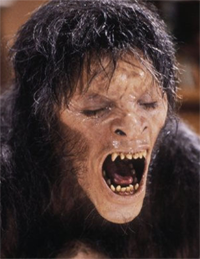
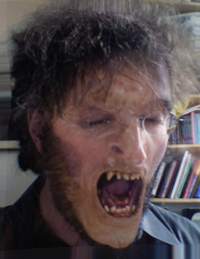
Final code + tests

diff --git a/a2test.py b/a2test.py
@@ -3,27 +3,36 @@ import imageIO as io
 import numpy as np
 import math
 
-image = io.imread("panda2.png")
-io.imwrite(scaleNN(image, 2.5), "pandaNN.png")
-io.imwrite(scaleLin(image, 2.5), "pandaLin.png")
-io.imwrite(rotate(image, math.pi / 4), "pandaRotate.png");
+panda = io.imread("panda2.png")
+bear = io.imread("bear.png")
+fredo = io.imread("fredo2.png")
+werewolf = io.imread("werewolf.png")
 
-image = io.imread("bear.png")
-io.imwrite(warpBy1(image, segment(0,0, 10,0), segment(10, 10, 30, 15)), "bearWarp.png")
+# Test scaling
+io.imwrite(scaleNN(panda, 2.5), "pandaNN_2.5.png")
+io.imwrite(scaleNN(panda, 0.5), "pandaNN_0.5.png")
+io.imwrite(scaleLin(panda, 2.5), "pandaLin_2.5.png")
+io.imwrite(scaleLin(panda, 0.5), "pandaLin_0.5.png")
+io.imwrite(scaleLin(fredo, 2.5), "fredoLin_2.5.png")
+io.imwrite(scaleLin(fredo, 0.5), "fredoLin_0.5.png")
 
-image = io.imread("bear.png")
+# Test rotation
+io.imwrite(rotate(panda, math.pi / 4), "pandaRotate45.png");
+io.imwrite(rotate(panda, math.pi / 2), "pandaRotate90.png");
+io.imwrite(rotate(panda, math.pi), "pandaRotate180.png");
+io.imwrite(rotate(fredo, math.pi / 6), "fredoRotate30.png");
+
+# Test warp single segment
+io.imwrite(warpBy1(bear, segment(0,0, 10,0), segment(10, 10, 30, 15)), "bearWarpBy1.png")
+
+# Test warp 2 segments
 segmentsBefore=np.array([segment(13, 10, 50, 10), segment(119, 72, 119, 28)])
 segmentsAfter=np.array([segment(8, 12, 38, 34), segment(117, 71, 91, 36)])
-io.imwrite(warp(image, segmentsBefore, segmentsAfter), "bearWarp2.png")
+io.imwrite(warp(bear, segmentsBefore, segmentsAfter), "bearWarp2.png")
 
-im1 = io.imread("fredo2.png")
-im2 = io.imread("werewolf.png")
+# Test morph
 segmentsBefore=np.array([segment(11, 37, 37, 20), segment(149, 35, 175, 79), segment(88, 130, 110, 128), segment(146, 129, 163, 132), segment(104, 198, 130, 190), segment(126, 220, 136, 197), segment(41, 197, 70, 249), segment(140, 237, 164, 170)])
 segmentsAfter=np.array([segment(12, 45, 32, 18), segment(160, 16, 177, 56), segment(83, 114, 105, 112), segment(142, 106, 158, 105), segment(103, 170, 131, 155), segment(126, 196, 144, 175), segment(79, 174, 100, 216), segment(145, 194, 157, 139)])
-images, beforemorph, aftermorph = morph(im1, im2, segmentsBefore, segmentsAfter)
-for i, im in enumerate(images):
+results = morph(fredo, werewolf, segmentsBefore, segmentsAfter, 5)
+for i, im in enumerate(results):
 	io.imwrite(im, "morph" + str(i) + ".png")
-for i, im in enumerate(beforemorph):
-	io.imwrite(im, "before" + str(i) + ".png")
-for i, im in enumerate(aftermorph):
-	io.imwrite(im, "after" + str(i) + ".png")

diff --git a/a2.py b/a2.py
@@ -121,7 +121,7 @@ class segment:
     def dist (self, X):
         '''returns distance from point X to the segment (pill shape dist)
         '''
-        return min(abs(self.uv(X)[1]), np.dot(X - self.P, X - self.P), np.dot(X - self.Q, X - self.Q))
+        return min(abs(self.uv(X)[1]), math.sqrt(np.dot(X - self.P, X - self.P)), math.sqrt(np.dot(X - self.Q, X - self.Q)))
 
     def uvtox(self,u,v):
         '''take the u,v values and return the corresponding point (that is, the np.array([y, x]))
@@ -180,17 +180,12 @@ def morph(im1, im2, segmentsBefore, segmentsAfter, N=1, a=10, b=1, p=1):
     '''
     sequence=list()
     sequence.append(im1.copy())
-    l1 = []
-    l2 = []
     for i in xrange(1, N+1):
         t = float(i) / (N+1)
-        print t
         newSeg = segmentsBefore * (1-t) + segmentsAfter * t
         int1 = warp(im1, segmentsBefore, newSeg)
         int2 = warp(im2, segmentsAfter, newSeg)
         morphIm = (1-t) * int1 + t * int2
-        l1.append(int1)
-        l2.append(int2)
         sequence.append(morphIm)
     sequence.append(im2.copy())
-    return sequence, l1, l2
+    return sequence
